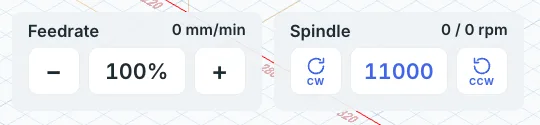
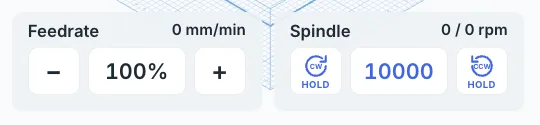
docs(visualizer): spindle start is a 1 s HOLD
Spindle control now explains holding HOLD for 1 second to start CW/CCW,
with new dark/light stills. The tap-to-start clip is off the page until
it is reshot; the capture script holds instead of tapping.

Claude-Session: https://claude.ai/code/session_01KxSt6fzfYPhsnYpfoTniWK

diff --git a/docs/features/visualizer.md b/docs/features/visualizer.md
@@ -99,14 +99,18 @@ While a job runs:
 
 ### Spindle control
 
-<video autoplay loop muted playsinline preload="metadata" aria-label="Starting the spindle with CW, raising the speed, then STOP" poster="../../assets/images/features/visualizer-spindle-run-poster.jpg">
-  <source src="../../assets/images/features/visualizer-spindle-run.mp4" type="video/mp4">
-</video>
+![Spindle card with the two HOLD buttons either side of the speed](../../assets/images/features/visualizer-spindle-controls.webp)
+
+<!-- CAPTURE NEEDED: assets/images/features/visualizer-spindle-run.mp4 (hold CW for 1 s until the fill completes, raise the speed, then STOP; needs the spindle to run) -->
 
 When no job is running, the **Spindle** card runs the spindle instead of
 overriding it — an override only means something while a program is feeding.
 
-- Tap **CW** or **CCW** to start the spindle at the speed shown.
+- Press and hold a **HOLD** button for 1 second to start the spindle at the
+  speed shown. The left button turns it clockwise (**CW** in its arrow), the
+  right one counter-clockwise (**CCW**). A fill sweeps across the button while
+  you hold; the spindle starts when it reaches the end. Let go early and
+  nothing happens, so a stray touch can't start the spindle.
 - Tap the speed to pick from a list of preset speeds.
 - Tap **−** or **+** to change the speed by 1000 RPM. Hold to keep changing it.
   The speed never goes below or above what your controller allows (`$31`
@@ -114,7 +118,8 @@ overriding it — an override only means something while a program is feeding.
 
 Once the spindle is turning, the card changes:
 
-- The middle button becomes **STOP** (`M5`).
+- The middle button becomes **STOP** (`M5`). One tap stops the spindle, no
+  hold needed.
 - **−** and **+** still change the speed, and the spindle follows straight
   away, keeping the direction you started it in.
 
